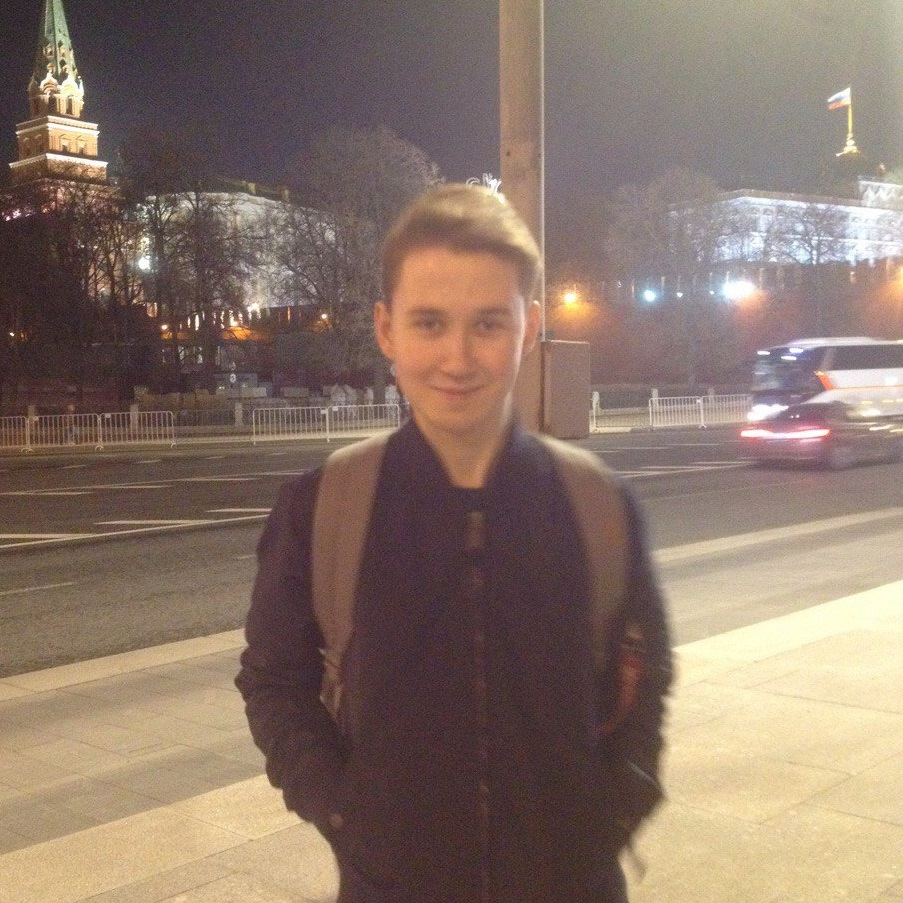
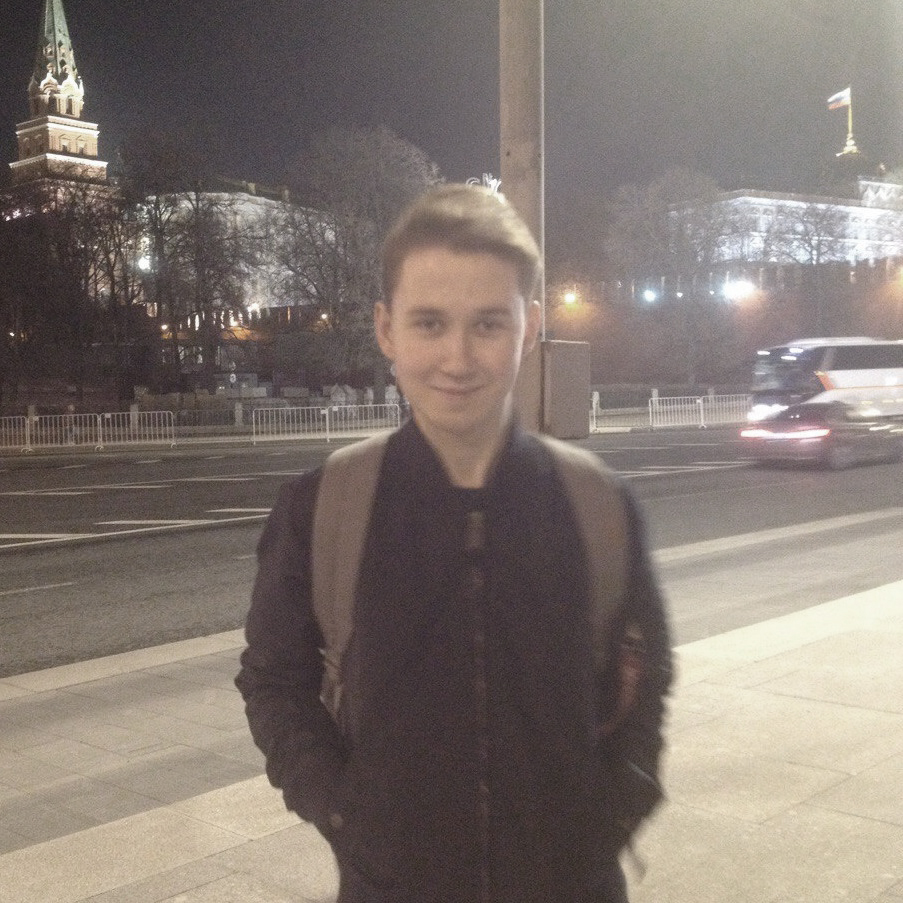
Adding 3rd row (About and Skills), adding comments, color correct of main photo

diff --git a/css/main.css b/css/main.css
@@ -5,7 +5,7 @@
     --dark-blue: #3BAFDA;
     --light-grey: #E7E7E7;
     --grey: #656D78;
-    --dark-gray: #434A54;
+    --dark-grey: #434A54;
     --black: #111111;
     --white: #fff;
     --material-shadow: 0 1px 3px rgba(0,0,0,0.12), 0 1px 2px rgba(0,0,0,0.24);
@@ -46,9 +46,14 @@ a:hover {
     color: var(--light-grey);
 }
 
+p {
+    text-align: justify;
+    line-height: normal;
+}
 
 
-/* BODY AND MAIN BLOCKS-------------------------------*/
+
+/* BODY AND MAIN BLOCKS TEMPLATES-------------------------------*/
 
 body {
     width: 100%;
@@ -56,9 +61,10 @@ body {
     background-color: var(--light-grey);
 }
 
-.box {
+.box { /*Top background block of BODY*/
     width: 100%;
     height: 30vh;
+    max-height: 300px;
     background-color: var(--blue);
     position: absolute;
     top: 0;
@@ -66,23 +72,25 @@ body {
     z-index: -1;
 }
 
-.main_container {
+.main_container { /*Container with Rows*/
     display: flex;
     flex-direction: column;
 
     max-width: 800px;
     width: 100%;
     min-height: 100%;
+
     margin: 0 auto;
+    padding: 0 5px;
 }
 
-.row {
+.row { /*Main element*/
     display: flex;
     width: 100%;
-    margin: 30px auto 30px auto;
+    margin: 30px auto;
 }
 
-.block {
+.block { /*Row with background and shape*/
     background-color: var(--white);
     box-shadow: var(--material-shadow);
     transition: all 0.3s cubic-bezier(.25,.8,.25,1);
@@ -92,13 +100,13 @@ body {
   box-shadow: var(--material-shadow-hover);
 }
 
-.line {
+.line { /*Change for <hr>*/
     position: relative;
     width: 100%;
     margin: 10px 0;
 }
 
-.line:before {
+.line:before { /*Change for <hr>*/
     content: "";
     position: absolute;
     left: 0;
@@ -107,9 +115,30 @@ body {
     border-bottom: 2px solid var(--light-grey);
 }
 
-.info___top___items .bold {
+.bold { /*All .bold blocks are bold*/
     font-weight: bold;
 }
+
+.columns { /*Template for column elemenrs*/
+    display: flex;
+    flex-direction: row;
+    justify-content: space-between;
+    align-items: flex-start;
+    flex-wrap: wrap;
+}
+
+.columns .column {
+    width: 45%;
+    min-width: 140px;
+
+    display: flex;
+    flex-direction: column;
+    justify-content: space-evenly;
+
+    color: var(--dark-grey);
+}
+
+
 
 /*TOP ROW with LOGO and SOCIALS ------------------*/
 
@@ -159,14 +188,17 @@ body {
 
 .personal-info {
     flex-direction: row;
-    justify-content: flex-start;
+    justify-content: center;
     align-items: stretch;
+    flex-wrap: nowrap;
+
+    background-color: var(--white);
 
     height: 40vw;
     max-height: 400px;
 }
 
-.profile-img {
+.profile-img { /*Main photo of profile (left)*/
     max-height: 40vw;
     max-width: 40vw;
     height: 100%;
@@ -178,71 +210,78 @@ body {
     background-size: 125% 125%;
 }
 
-.personal-info .info {
+.personal-info .info { /*Main info of profile (right)*/
     display: flex;
     flex-direction: column;
     justify-content: flex-start;
     flex-grow: 1;
+    background-color: var(--white);
 }
 
-.info___top {
+.info___top {  /*Text information*/
     padding: 20px 20px;
     display: flex;
     flex-direction: column;
     flex-grow: 1;
 }
 
-.info___top .name {
+.info___top .name { /*Name and speciality*/
     font-size: 2em;
     width: 100%;
 }
 
-.info___top .name span {
-    font-weight: bold;
-    color: var(--blue);
+.info___top .name span { /*Name*/
+    color: var(--dark-blue);
 }
 
-.info___top .name p {
+.info___top .name p { /*Speciality*/
     font-size: 16px;
     color: var(--black);
     margin-top: 10px;
 }
 
-.info___top___items {
+.info___top___table { /*List of Information*/
     display: flex;
     flex-direction: column;
     justify-content: space-around;
     align-items: baseline;
     flex-grow: 1;
-    overflow: auto;
+
+    overflow: hidden;
+
+    min-width: 340px;
 }
 
-.info___top___item {
+.info___top___row { /*Row of Information*/
     display: flex;
     justify-content: flex-start;
     flex-wrap: wrap;
     align-items: center;
 
+    margin-bottom: 10px;
+
     width: 100%;
 }
 
-.info___top___item .bold {
+.info___top___row div:first-child {
     width: 25%;
 }
 
-.info___bottom {
+.info___bottom {  /*Contact block (bottom)*/
     display: flex;
     justify-content: space-evenly;
     align-items: center;
     flex-wrap: wrap;
 
     height: 7vw;
+    max-height: 75px;
+    min-height: 55px;
     width: 100%;
 
     background-color: var(--blue);
 }
 
-.info___bottom a {
+.info___bottom a {   /*Contact icon*/
     flex-grow: 1;
     display: flex;
     justify-content: center;
@@ -255,4 +294,90 @@ body {
 
 .info___bottom a:hover {
     background-color: var(--dark-blue);
+}
+
+
+
+/*3nd ROW - ABOUT ME and SKILLS ------------------*/
+
+.about-info {
+    justify-content: center;
+    align-items: flex-start;
+
+    padding: 20px;
+}
+
+.about-info > * {
+    flex-basis: 100%;
+
+    padding: 20px;
+}
+
+.about-info h2 {
+    margin-bottom: 10px;
+    color: var(--dark-blue);
+}
+
+.about-info .column > * {
+    margin: 3px 0;
+}
+
+.about-info .column:first-child {
+    margin-right: 15px;
+}
+
+
+
+/*BOTTOM ROW - LIFETIME ------------------*/
+
+
+
+
+
+/*MOBILE ADAPTATION ------------------*/
+
+@media screen and (max-width: 650px) {
+    /*Mobile margins ------------------*/
+    .row {
+        margin: 20px auto;
+    }
+
+
+
+    /*Centering top ------------------*/
+    .top {
+        justify-content: center;
+        text-align: center;
+    }
+
+    .top .socials {
+        margin: 20px auto 0;
+    }
+
+
+    /*Adjusting photo ------------------*/
+    .personal-info {
+        position: relative;
+        max-height: 600px;
+        height: auto;
+    }
+    .profile-img {
+        position: absolute;
+        top: 0;
+        right: 0;
+
+        width: 90px;
+        height: 90px;
+    }
+
+    .personal-info .line::before {
+        width: 100%;
+    }
+
+
+    /*Wrapping About Info on Mobile------------------*/
+    .about-info {
+        flex-wrap: wrap;
+    }
+
 }

diff --git a/index.html b/index.html
@@ -29,14 +29,14 @@
             <div class="profile-img"></div>
             <div class="info">
                 <div class="info___top">
-                    <div class="name">I'm <span>Simeon Ivanov</span><p>Full-Stack & Data Science</p></div>
+                    <div class="name">I'm <span class="bold">Simeon Ivanov</span><p>Full-Stack & Data Science</p></div>
                     <div class="line"></div>
-                    <div class="info___top___items">
-                        <div class="info___top___item"><div class="bold">Age:</div><div>21</div></div>
-                        <div class="info___top___item"><div class="bold">Adress:</div><div>Nizny Novgorod, Gagarina pr-t, 2</div></div>
-                        <div class="info___top___item"><div class="bold">E-mail:</div><div>simeonivanov7@gmail.com</div></div>
-                        <div class="info___top___item"><div class="bold">Phone:</div ><div>+7 (999) 121-70-83</div></div>
-                        <div class="info___top___item"><div class="bold">University:</div><div>NRU HSE</div></div>
+                    <div class="info___top___table">
+                        <div class="info___top___row"><div class="bold">Age:</div><div>21</div></div>
+                        <div class="info___top___row"><div class="bold">Adress:</div><div>Nizny Novgorod, Gagarina pr-t, 2</div></div>
+                        <div class="info___top___row"><div class="bold">E-mail:</div><div>simeonivanov7@gmail.com</div></div>
+                        <div class="info___top___row"><div class="bold">Phone:</div ><div>+7 (999) 121-70-83</div></div>
+                        <div class="info___top___row"><div class="bold">University:</div><div>NRU HSE</div></div>
                     </div>
                 </div>
                 <div class="info___bottom"><!---Social icons-->
@@ -48,7 +48,33 @@
             </div>
 
         </div>
-        <div class="row block"></div>
+        <div class="row about-info block">
+            <div class="about-me">
+                <h2>About me</h2>
+                <p>I create visual concepts, by hand or using computer software, to communicate ideas that inspire, inform, or captivate consumers. Moreover, I develop the overall layout and production design for advertisements, brochures, blogs, and sites. Very passionate about programming, data science and social mechanisms.</p>
+            </div>
+            <div class="skills">
+                <h2>Skills</h2>
+                <div class="columns">
+                    <div class="column">
+                        <div class="bold">ILLUSTRATION</div>
+                        <div class="bold">LAYOUTING</div>
+                        <div class="bold">ART DIRECTION</div>
+                        <div class="bold">PHOTO & VIDEO EDITING</div>
+                        <div class="bold">CONCEPTUALIZATION</div>
+                        <div class="bold">HTML, CSS & JS</div>
+                    </div>
+                    <div class="column">
+                        <div class="bold">PYTHON</div>
+                        <div class="bold">DATA ANALYSIS</div>
+                        <div class="bold">WEB DESIGN</div>
+                        <div class="bold">SMM</div>
+                        <div class="bold">SEO</div>
+                        <div class="bold"></div>
+                    </div>
+                </div>
+            </div>
+        </div>
         <div class="row"></div>
     </div>
 
